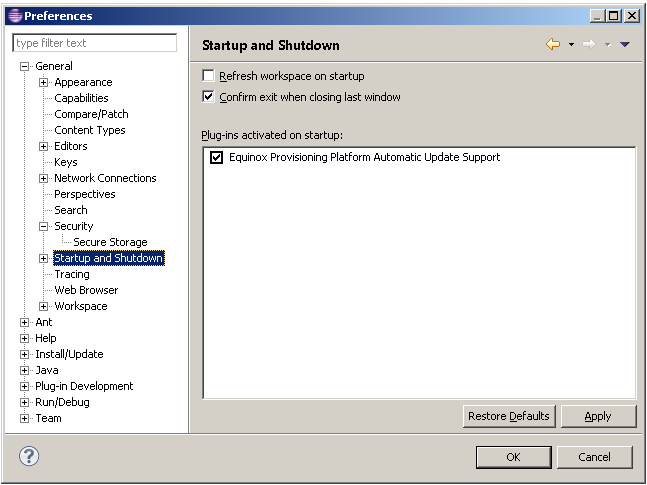
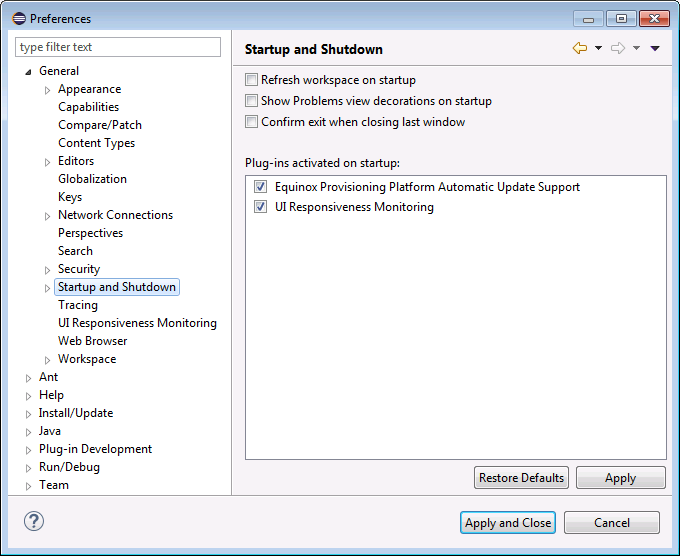
Bug 518905 - Help page for "Startup and Shutdown" preferences omits info about "show problems view decorations on startup"

diff --git a/bundles/org.eclipse.platform.doc.user/reference/ref-startup.htm b/bundles/org.eclipse.platform.doc.user/reference/ref-startup.htm
@@ -41,6 +41,13 @@ actually be activated during startup.</P>
     <td> <div CLASS="Para">Off</div></td>
   </tr>
   <tr>
+    <td> <div CLASS="Para">Show Problems view decorations on startup</div></td>
+    <td> <div CLASS="Para">If this option is turned on then the Problems 
+    view icon will show an errors/warnings overlay after startup,
+    independently if the Problems view is on top of the view stack or not.</div></td>
+    <td> <div CLASS="Para">Off</div></td>
+  </tr>
+  <tr>
     <td> <div CLASS="Para">Confirm exit when closing last window</div></td>
     <td> <div CLASS="Para">If this option is turned on then the workbench will
         ask if you wish to exit when closing the last window if.</div></td>
